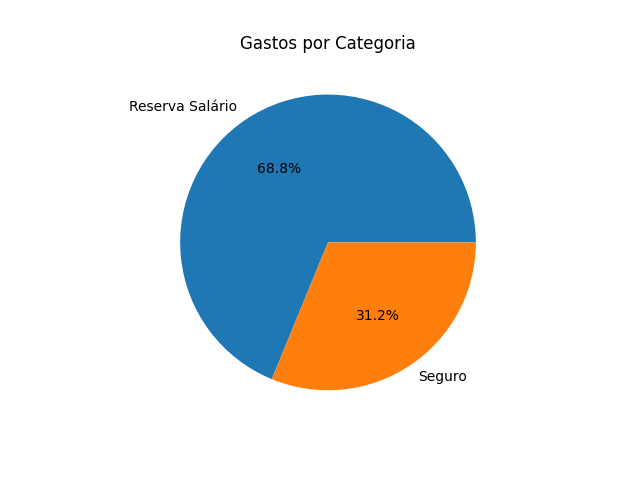
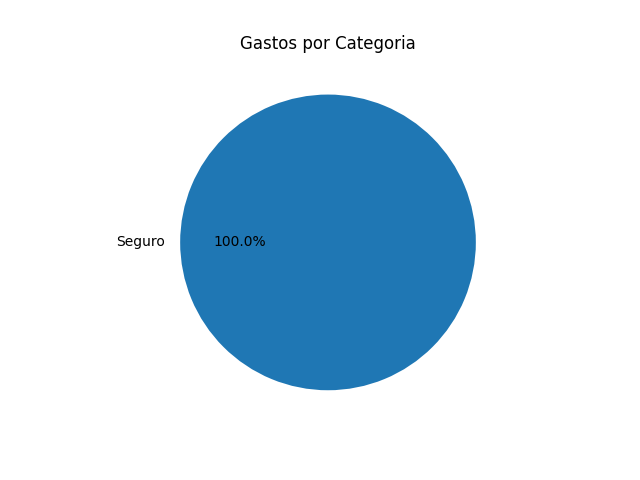
Funcionalidade de edição de transações

diff --git a/main.py b/main.py
@@ -1,6 +1,7 @@
 import json
 import pandas as pd
 import matplotlib.pyplot as plt
+from datetime import datetime
 
 ARQUIVO = "dados.json"
 
@@ -24,11 +25,13 @@ def adicionar_transacao():
         tipo = input("Digite o tipo (receita/despesa): ").lower()
         
     while True:
+        data = input("Data (YYYY-MM-DD): ")
+        
         try:
-            valor = float(input("Digite o valor: "))
+            datetime.strptime(data, "%Y-%m-%d")
             break
         except ValueError:
-            print("Valor inválido! Digite um número.")
+            print("Data inválida! Use o formato YYYY-MM-DD.")
             
     categoria = input("Categoria: ").strip().title()
     data = input("Data (YYYY-MM-DD): ")
@@ -56,7 +59,7 @@ def listar_transacoes():
     
     for i, t in enumerate(dados, start=1):
         tipo = t["tipo"].capitalize()
-        valor = f"R$ {t['valor']:.2f}"
+        valor = f"R$ {float(t['valor']):.2f}"
         categoria = t["categoria"]
         data = t["data"]
         
@@ -68,9 +71,9 @@ def ver_saldo():
     
     for t in dados:
         if t["tipo"] == "receita":
-            saldo += t["valor"]
+            saldo += float(t["valor"])
         else:
-            saldo -= t["valor"]
+            saldo -= float(t["valor"])
             
     print(f"Saldo atual: {saldo:.2f}")
     
@@ -173,7 +176,7 @@ def remover_transacao():
     print("\n--- TRANSAÇÕES ---")
     
     for i, t in enumerate(dados, start=1):
-        print(f"{i}. [{t['tipo'].capitalize()}] R$ {t['valor']:.2f} | {t['categoria']} | {t['data']}")
+        print(f"{i}. [{t['tipo'].capitalize()}] R$ {float(t['valor']):.2f} | {t['categoria']} | {t['data']}")
         
     try:
         indice = int(input("\nDigite o número da transação que deseja remover: "))    
@@ -183,10 +186,57 @@ def remover_transacao():
             salvar_dados(dados)
             
             print("\nTransação removida com sucesso!")
-            print(f"Removido: {removida['categoria']} - R$ {removida['valor']:.2f}")
+            print(f"Removido: {removida['categoria']} - R$ {float(removida['valor']):.2f}")
             
         else:
             print('Número inválido.')
+            
+    except ValueError:
+        print("Digite um número válido.")
+        
+def editar_transacao():
+    dados = carregar_dados()
+    
+    if not dados:
+        print('Nenhuma transação encontrada')
+        return
+    print('\n--- TRANSAÇÕES ---')
+    
+    for i, t in enumerate(dados, start=1):
+        print(f"{i}. [{t['tipo'].capitalize()}] R$ {float(t['valor']):.2f} | {t['categoria']} | {t['data']}")
+        
+    try:
+        indice = int(input("\nDigite o número da transação que deseja editar: "))
+        
+        if 1 <= indice <= len(dados):
+            
+            transacao = dados[indice - 1]
+            
+            print("\nDeixe vazio para manter o valor atual.")
+            
+            novo_tipo = input(f"Tipo ({transacao['tipo']}): ").lower()
+            novo_valor = input(f"Valor ({transacao['valor']}): ")
+            nova_categoria = input(f"Categoria ({transacao['categoria']}): ").title()
+            nova_data = input(f"Data ({transacao['data']}): ")
+            
+            if novo_tipo:
+                transacao["tipo"] = novo_tipo
+                
+            if novo_valor:
+                transacao["valor"] = float(novo_valor)
+                
+            if nova_categoria:
+                transacao["categoria"] = nova_categoria
+                
+            if nova_data:
+                transacao["data"] = nova_data
+                
+            salvar_dados(dados)
+            
+            print("\nTransação atualizada com sucesso!")
+            
+        else:
+            print("Número inválido.")
             
     except ValueError:
         print("Digite um número válido.")
@@ -203,7 +253,8 @@ def menu():
         print("6 - Gráfico de gastos por categoria")
         print("7 - Gráfico receitas vs despesas")
         print("8 - Remover transação")
-        print("9 - Sair")
+        print("9 - Editar transação")
+        print("10 - Sair")
         
         opcao = input("Escolha: ")
         
@@ -224,6 +275,8 @@ def menu():
         elif opcao == "8":
             remover_transacao()
         elif opcao == "9":
+            editar_transacao()
+        elif opcao == "10":
             print("Saindo...")
             break
         else:
